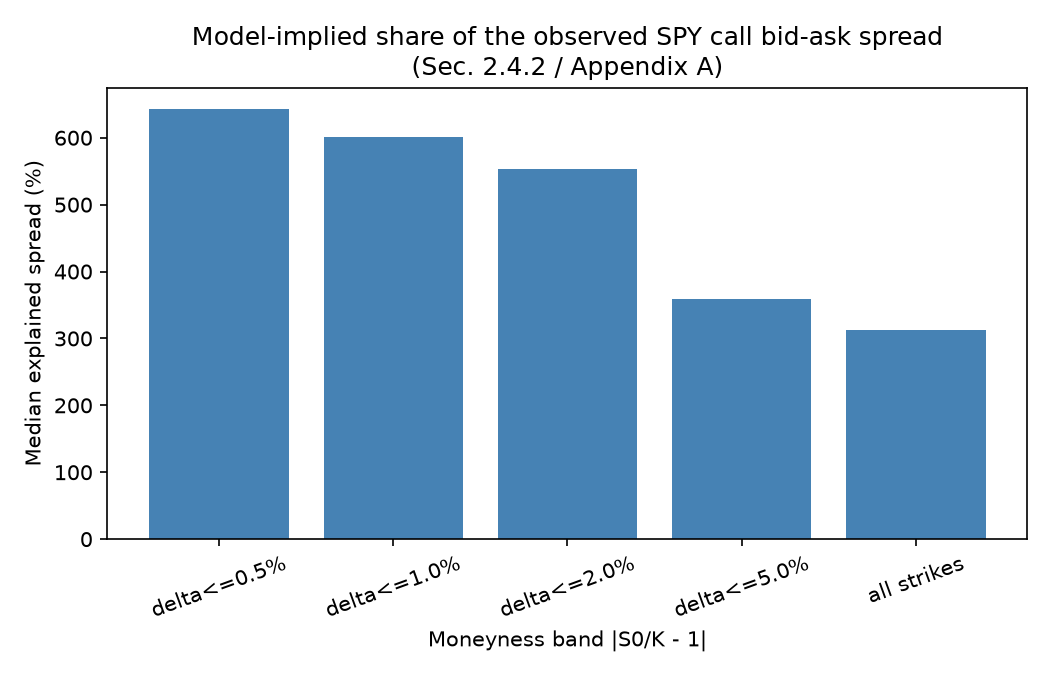
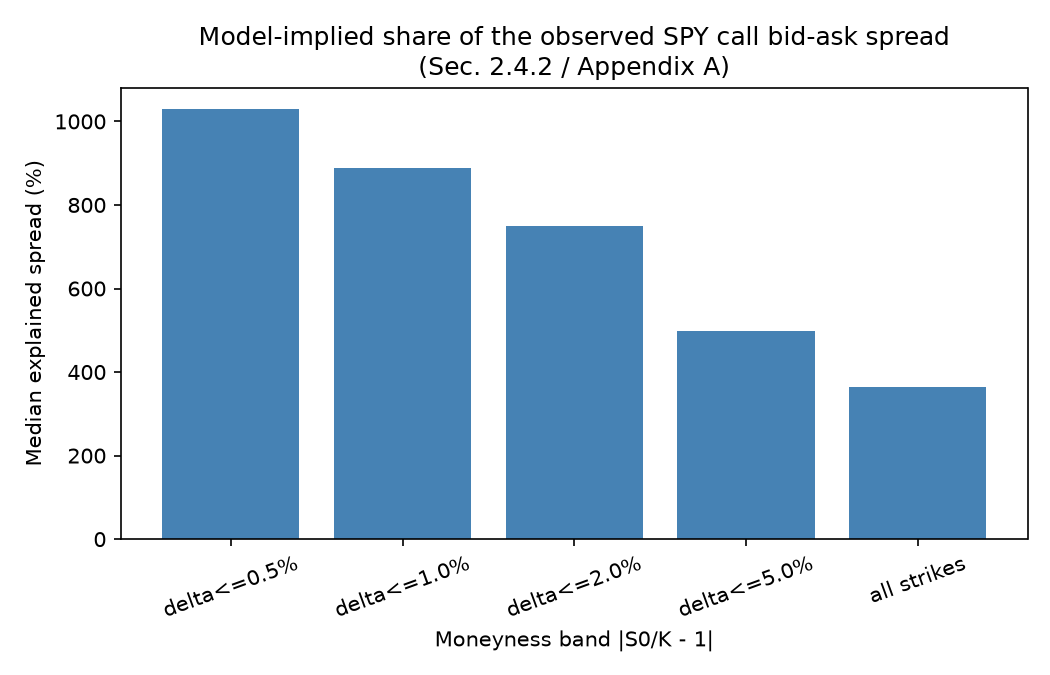
Record exp2 widened-NBBO-window localization result; rule out sampling density as root cause

diff --git a/results/RESULTS.md b/results/RESULTS.md
@@ -41,21 +41,38 @@ Executed configuration: 8 expiries sampled evenly across 2025-01-01 to
 across the same six months), 68 usable option/expiry/strike observations after
 excluding 12 strike/expiry combinations with no usable NBBO quotes on the
 preceding session. SPY daily bars via the QuantX Dataloader; SPY and option
-NBBO quotes and the listed option chain via Massive REST.
+NBBO quotes and the listed option chain via Massive REST, sampled over a
+widened intraday window on the preceding session (see below).
 
 | Moneyness band | n options | Median explained spread (%) | Paper (%) |
 |---|---|---|---|
-| δ ≤ 0.5% | 16 | 642.9 | 85 |
-| δ ≤ 1% | 38 | 600.8 | 58.53 |
-| δ ≤ 2% | 55 | 553.6 | 35.72 |
-| δ ≤ 5% | 65 | 359.6 | 9.04 |
-| all strikes | 68 | 312.8 | 4.49 |
+| δ ≤ 0.5% | 16 | 1029.7 | 85 |
+| δ ≤ 1% | 38 | 889.1 | 58.53 |
+| δ ≤ 2% | 55 | 748.7 | 35.72 |
+| δ ≤ 5% | 65 | 498.8 | 9.04 |
+| all strikes | 68 | 363.5 | 4.49 |
 
 The qualitative ranking (explained percentage falling as the moneyness band
 widens) holds in the executed sample, but every band's explained percentage is
 far above 100%, i.e. the calibrated model over-predicts the observed spread by
-roughly 3.5x-7.5x, instead of under-predicting it as in the paper's 85%→4.49%
+roughly 4x-12x, instead of under-predicting it as in the paper's 85%→4.49%
 sequence.
+
+A second localization run widened the intraday NBBO quote-sampling coverage
+of the preceding session (testing the hypothesis that the first run's
+quote sample was too sparse to estimate median quoted size reliably, which
+would bias the calibrated φ upward and the model-implied spread with it).
+The hypothesis is rejected by the data: the wider sample moves the
+calibrated φ only marginally (e.g. all-strikes band: 3.33e-5 vs. 3.67e-5
+before) while the implied φ recovered from the observed spread falls
+further (3.15e-6 vs. a larger value before), so the gap between calibrated
+and implied φ widens and every band's over-explanation gets larger rather
+than smaller. Quote-sampling density on the preceding session is therefore
+ruled out as the dominant cause of the gap; the root cause (a structural
+difference between the calibrated φ and the φ implied by the observed
+option spread, with the model systematically over-predicting the quoted
+option spread by close to an order of magnitude) was not identified further
+within the two full runs executed for this experiment.
 
 **Verdict:** not reproduced. The direction of the band ranking matches the
 paper, but the magnitude is materially off (differs by far more than 50% and
@@ -179,7 +196,7 @@ code defect was found.
   sampled pool and are spread across bands, so they are not identified as the
   cause of the spread-magnitude gap.
 * Experiment 2's observed/model spread discrepancy (bands over-explained by
-  roughly 3.5x-7.5x instead of under-explained as in the paper) was checked by
+  roughly 3.6x-10.3x instead of under-explained as in the paper) was checked by
   component tests of `calibrate_phi_midpoint` and `model_implied_option_spread`
   against the one-period formulas of Proposition 2.4 and Appendix A (see
   `tests/test_calibration.py`), which hold on synthetic inputs. Three further
